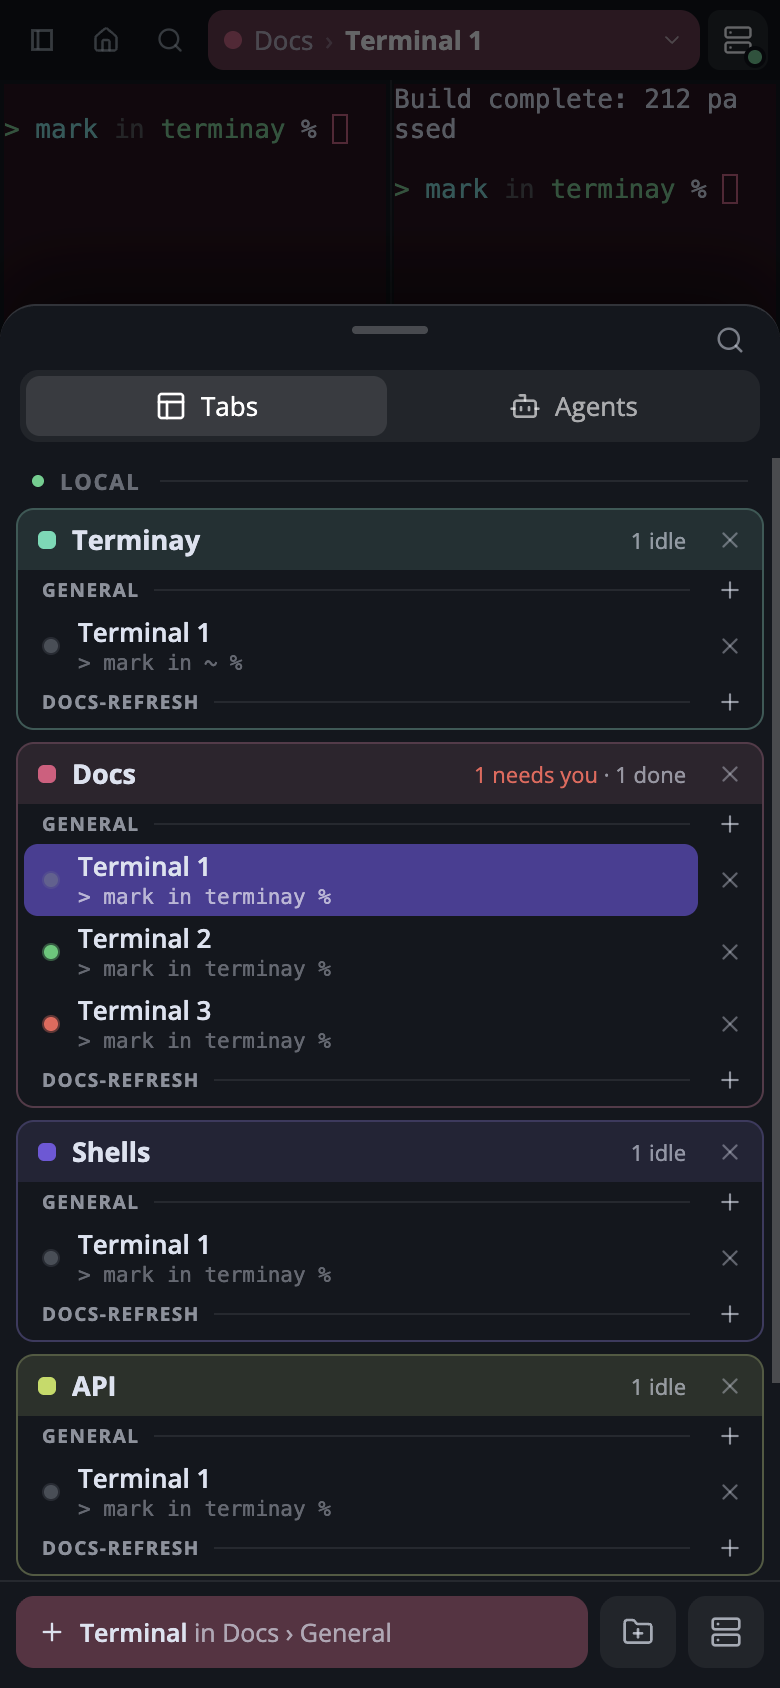
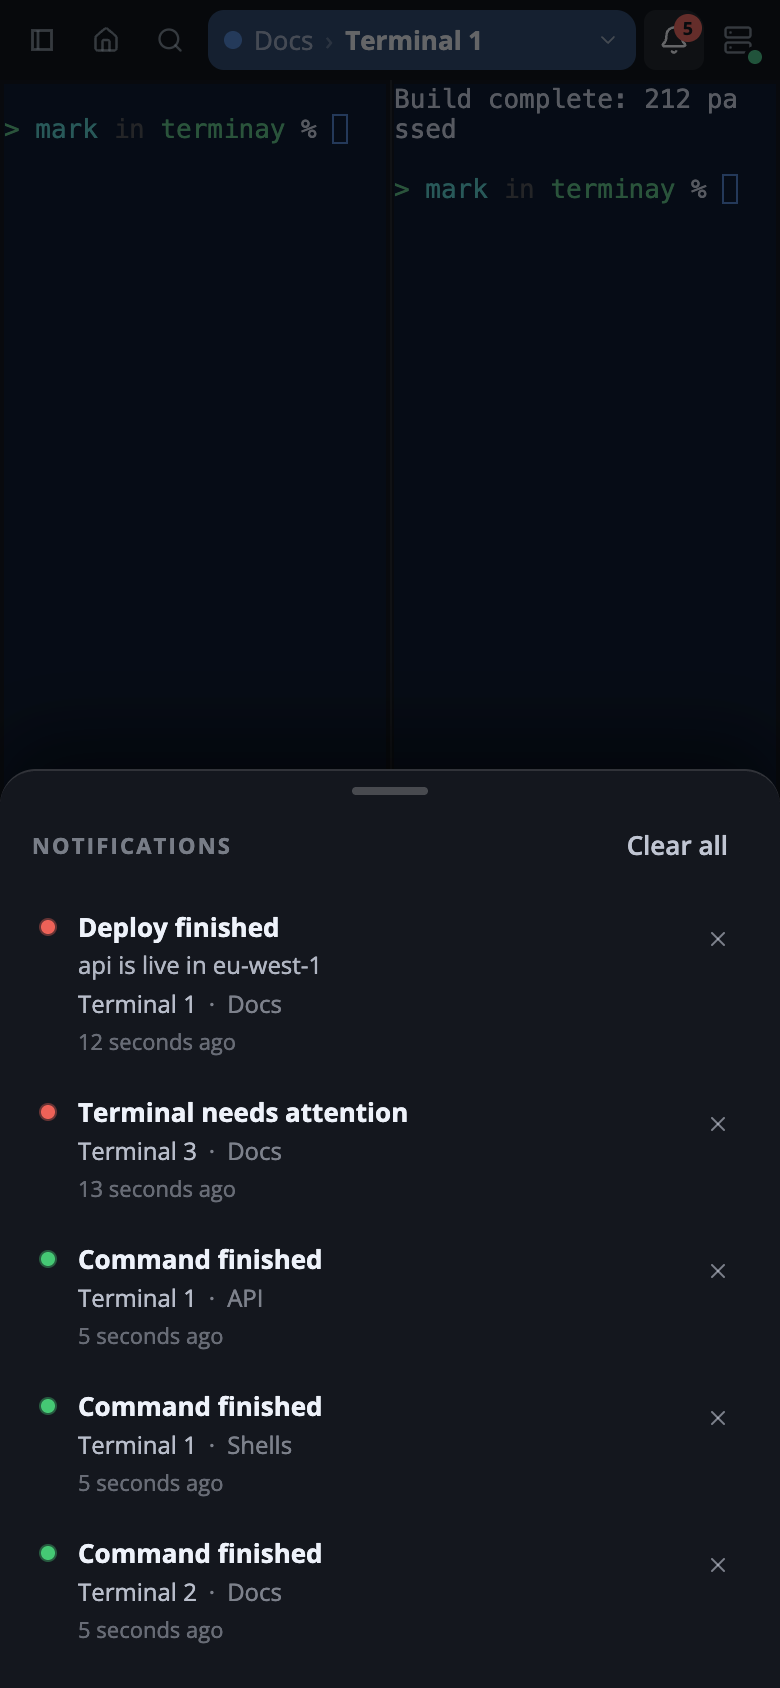
blog: show the phone notifications sheet

diff --git a/src/content/blog/web-push-on-an-iphone-pwa.md b/src/content/blog/web-push-on-an-iphone-pwa.md
@@ -136,9 +136,9 @@ What people who've shipped this seem to do is not trust the subscription to last
 
 The fix was small once I knew the limit wasn't real. The placeholder banner is gone, so a push that only changes the count shows nothing. The phone tells each server it accepts those pushes. When I click into a terminal on my desktop, the server sends the phone a sealed push that says "here is what's still outstanding", and the service worker closes any banner that isn't on that list and sets the badge to the new total.
 
-On the phone itself, the terminal switcher shows which terminals need me.
+Writing this post is how I found out the phone layout had no notification list at all, so that got built too. The bell is at the top right and the list slides up from the bottom.
 
-![Terminay on a phone with the terminal switcher open, one terminal red and one green](../../assets/pwa-push/terminay-notifications-mobile.png)
+![Terminay on a phone with the Notifications sheet open](../../assets/pwa-push/terminay-notifications-mobile.png)
 
 I haven't tested any of this on Android yet. Web Push and VAPID are the same there, but I don't know how the badge calls or a push that shows nothing behave in Chrome on a phone, so I'm not going to claim it works until I've held one and watched it.
 
